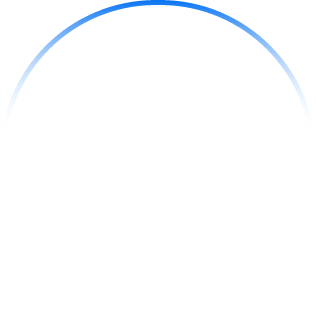
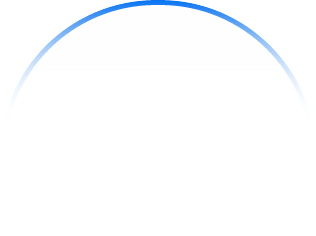
first update

Changed region(s): [[0.0285, 0.0, 0.9684, 0.3559]]

diff --git a/index.html b/index.html
@@ -4,73 +4,110 @@
 
 <head>
 
-    <meta charset="UTF-8">
-    <meta name="viewport" content="width=device-width, initial-scale=1.0">
+  <meta charset="UTF-8">
+  <meta name="viewport" content="width=device-width, initial-scale=1.0">
 
-    <!-- Website Title Logo -->
-    <link rel="shortcut icon" href="./images/payoo.png" type="image/x-icon">
+  <!-- Website Title Logo -->
+  <link rel="shortcut icon" href="./images/payoo.png" type="image/x-icon">
 
-    <!-- Google Font CDN (Outfit)-->
-    <link rel="preconnect" href="https://fonts.googleapis.com">
-    <link rel="preconnect" href="https://fonts.gstatic.com" crossorigin>
-    <link href="https://fonts.googleapis.com/css2?family=Outfit:wght@100..900&display=swap" rel="stylesheet">
+  <!-- Google Font CDN (Outfit)-->
+  <link rel="preconnect" href="https://fonts.googleapis.com">
+  <link rel="preconnect" href="https://fonts.gstatic.com" crossorigin>
+  <link href="https://fonts.googleapis.com/css2?family=Outfit:wght@100..900&display=swap" rel="stylesheet">
 
-    <!-- Tailwind CSS & DaisyUI CDN -->
-    <link href="https://cdn.jsdelivr.net/npm/daisyui@4.12.23/dist/full.min.css" rel="stylesheet" type="text/css" />
-    <script src="https://cdn.tailwindcss.com"></script>
+  <!-- Tailwind CSS & DaisyUI CDN -->
+  <link href="https://cdn.jsdelivr.net/npm/daisyui@4.12.23/dist/full.min.css" rel="stylesheet" type="text/css" />
+  <script src="https://cdn.tailwindcss.com"></script>
 
-    <!-- Font Awesome CDN -->
-    <script src="https://kit.fontawesome.com/89cee7f055.js" crossorigin="anonymous"></script>
+  <!-- Font Awesome CDN -->
+  <script src="https://kit.fontawesome.com/89cee7f055.js" crossorigin="anonymous"></script>
 
-    <!-- Tailwind CSS Custom Configuration Section -->
-    <script>
-        tailwind.config = {
-            theme: {
-                extend: {
-                    colors: {
-                        clifford: '#da373d',
-                    }
-                }
-            }
+  <!-- Tailwind CSS Custom Configuration Section -->
+  <script>
+    tailwind.config = {
+      theme: {
+        extend: {
+          colors: {
+            clifford: '#da373d',
+            "fbg": '1E1E1E',
+          }
         }
-    </script>
+      }
+    }
+  </script>
 
-    <!-- Style Section -->
-    <style>
-
+  <!-- Style Section -->
+  <style>
     /* Font Styling Section */
     .outfit {
-        font-family: "Outfit", serif;
+      font-family: "Outfit", serif;
     }
-    
-    </style>
+  </style>
 
-    <!-- Animation Section -->
+  <!-- Animation Section -->
 
-    <!-- Title Section -->
-    <title>Payoo MFS</title>
+  <!-- Title Section -->
+  <title>Payoo MFS</title>
 
 </head>
 
-<body class="outfit">
-    
-    <!-- Header Section -->
-    <Header>
+<body class="outfit bg-gray-800">
 
-    </Header>
+  <!-- Header Section -->
+  <Header>
 
-    <!-- Main Section -->
-    <main>
+  </Header>
 
-    </main>
+  <!-- Main Section -->
+  <main>
 
-    <!-- Footer Section -->
-    <footer>
+    <section class="bg-fbg max-w-md min-h-screen mx-auto py-6 bg-gray-100">
 
-    </footer>
+      <div class="flex justify-center items-center mt-10 mb-5">
+        <!-- Image Container  -->
+        <div class="mt-10 w-9/12 relative flex justify-center items-center">
+          <img class="w-52 absolute " src="./images/bg.png" alt="Blue rounded Half-Circle">
+          <img class="w-20" src="./images/Group.png" alt="Right Tick Mark Group">
+        </div>
+      </div>
 
-    <!-- Section Linked HTML file to JavaScript file -->
-    <script src="./script/form.js"></script>
+      <!-- Login Section -->
+      <div class="">
+        <div class="hero-content flex justify-center items-center">
+          <div class="bg-base-100 w-full max-w-sm shrink-0 shadow-2xl rounded-2xl">
+            <form class="card-body">
+              <div class="form-control">
+                <label class="label">
+                  <span class="label-text">Mobile Number</span>
+                </label>
+                <input type="number" value="01927310931" placeholder="Enter your number" id="account-number"
+                  class="input input-bordered rounded-xl" required />
+              </div>
+              <div class="form-control">
+                <label class="label">
+                  <span class="label-text">4 Digit Pin</span>
+                </label>
+                <input type="text" value="44555" placeholder="Enter 4 Digit Pin" id="pin-number"
+                  class="input input-bordered rounded-xl" required />
+              </div>
+              <div class="form-control mt-6">
+                <button id="login-btn" class="btn btn-primary">Login</button>
+              </div>
+            </form>
+          </div>
+        </div>
+      </div>
+    </section>
+
+  </main>
+
+  <!-- Footer Section -->
+  <footer>
+
+  </footer>
+
+  <!-- Section Linked HTML file to JavaScript file -->
+  <script src="./script/login.js"></script>
 
 </body>
 

diff --git a/main.html b/main.html
@@ -1,0 +1,92 @@
+<!DOCTYPE html>
+<html lang="en" data-theme="light">
+
+<head>
+    <meta charset="UTF-8">
+    <meta name="viewport" content="width=device-width, initial-scale=1.0">
+
+    <!-- Website Title Logo -->
+    <link rel="shortcut icon" href="./images/payoo.png" type="image/x-icon">
+
+    <!-- Google Font CDN (Outfit)-->
+    <link rel="preconnect" href="https://fonts.googleapis.com">
+    <link rel="preconnect" href="https://fonts.gstatic.com" crossorigin>
+    <link href="https://fonts.googleapis.com/css2?family=Outfit:wght@100..900&display=swap" rel="stylesheet">
+
+    <!-- Tailwind CSS & DaisyUI CDN -->
+    <link href="https://cdn.jsdelivr.net/npm/daisyui@4.12.23/dist/full.min.css" rel="stylesheet" type="text/css" />
+    <script src="https://cdn.tailwindcss.com"></script>
+
+    <!-- Font Awesome CDN -->
+    <script src="https://kit.fontawesome.com/89cee7f055.js" crossorigin="anonymous"></script>
+
+    <!-- Tailwind CSS Custom Configuration Section -->
+    <script>
+        tailwind.config = {
+            theme: {
+                extend: {
+                    colors: {
+                        clifford: '#da373d',
+                        "gray-rgb": 'rgba(8, 8, 8, 0.5)',
+                    }
+                }
+            }
+        }
+    </script>
+
+    <!-- Style Section -->
+    <style>
+        /* Font Styling Section */
+        .outfit {
+            font-family: "Outfit", serif;
+        }
+    </style>
+
+    <!-- Animation Section -->
+
+    <!-- Title Section -->
+    <title>Payoo MFS</title>
+
+</head>
+
+<body class="outfit bg-gray-800">
+
+    <section class="bg-fbg max-w-md min-h-screen mx-auto py-6 bg-gray-100 ">
+        <!-- Header Section -->
+        <header class="">
+            <nav class=" flex justify-between items-center px-6 py-3 shadow-sm">
+                <div class="flex justify-start items-center">
+                    <img src="./images/Group.png" alt="">
+                    <div>
+                        <h1 class="text-lg font-extrabold">$45000</h1>
+                        <p class="text-gray-rgb">Available Balance</p>
+                    </div>
+                </div>
+                <div>
+                    <button id="logout-btn" class="btn bg-gray-100 text-gray-rgb rounded-lg border px-2 py-1">
+                        <i
+                            class="fa-solid fa-arrow-right-from-bracket rotate-180">
+                        </i> Log Out
+                    </button>
+                </div>
+            </nav>
+        </header>
+
+        <!-- Main Section -->
+        <main>
+
+        </main>
+
+        <!-- Footer Section -->
+        <footer>
+
+        </footer>
+
+    </section>
+
+    <!-- Section Linked HTML file to JavaScript file -->
+    <script src="./script/logout.js"></script>
+
+</body>
+
+</html>

diff --git a/script/login.js b/script/login.js
@@ -1,0 +1,23 @@
+const loginBTN = document.getElementById("login-btn").addEventListener("click", function(event){
+    event.preventDefault();
+    const accountNumber = document.getElementById("account-number").value;
+    const pinNumber = document.getElementById("pin-number").value;
+
+    const convertPinNumber = parseInt(pinNumber, 10);
+
+    console.log(typeof accountNumber);
+    console.log(typeof convertPinNumber);
+
+
+    if( accountNumber.length === 11 ){
+        if( pinNumber.length > 3 || pinNumber.length === 4 ){
+            window.location.href='../main.html';
+        }
+        else{
+            alert('Enter valid password')
+        }
+    }
+    else{
+        alert('Enter valid number')
+    }
+})

diff --git a/script/logout.js b/script/logout.js
@@ -1,0 +1,4 @@
+const logout = document.getElementById("logout-btn");
+logout.addEventListener("click",function(){
+    window.location.href='../index.html'
+})
